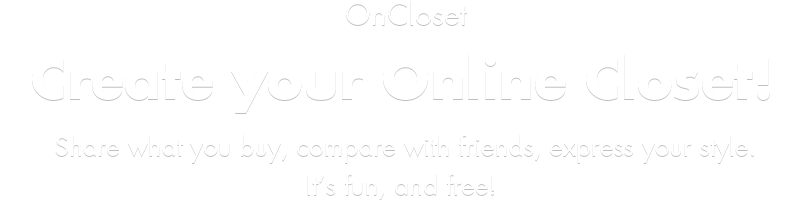
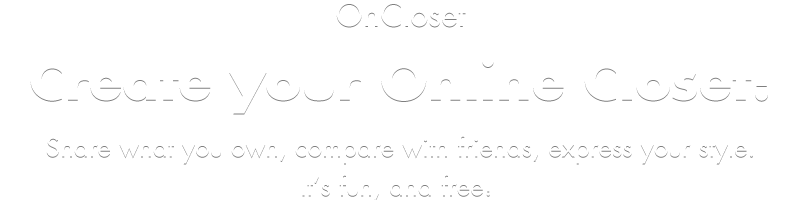
tiled onboarding, invite styled

diff --git a/public/stylesheets/home.css b/public/stylesheets/home.css
@@ -400,19 +400,18 @@ body.home6 {
 	margin: 0px auto 0px;
 }
 
-/*-------------------- Home 6 (Gojee1) --------------------*/
+/*-------------------- Home 7 (Batch) --------------------*/
 
 body.home7 {
 	font-family: 'FuturaStdBook', Arial, sans-serif;
 	-webkit-font-smoothing: antialiased;
 	font-size: 16px;
-	background: black url('/images/home7.jpg') no-repeat;
+	background: black url('/images/tile35_33.jpg');
 	background-position: center top;
 	overflow: hidden;
 }
 
-/*-------------------- Home 7 (Batch) --------------------*/
-
+/*
 #background {
 	width: 100%; 
   height: 100%; 
@@ -422,7 +421,7 @@ body.home7 {
   z-index: -1;
 }
 
-.stretch { /* for cross-browser stretching bg */
+.stretch { /* for cross-browser stretching bg 
 	 width:100%;
    height:100%;
 }
@@ -435,6 +434,7 @@ body.home7 {
 	bottom: 0px;
 	background: url('/images/black_16.png');
 }
+*/
 
 #container.home7 {
 	width: 800px;
@@ -450,7 +450,7 @@ body.home7 {
 	width: 334px;
 	height: 120px;
 	margin: 26px auto 0;
-	background: url('/images/home_batch_3_login.png');
+	background: url('/images/home_batch_login.png');
 	display: block;
 }
 

diff --git a/public/stylesheets/application.css b/public/stylesheets/application.css
@@ -467,7 +467,8 @@ body {
 
 #pic_bg #container .pick_top_stores,
 #pic_bg #container .follow_people,
-#pic_bg #container .add_1st_item  {
+#pic_bg #container .add_1st_item,
+#pic_bg #container .invite_friends {
 	width: 320px;
 	height: 60px;
 	cursor: pointer;
@@ -515,6 +516,14 @@ body {
 }
 #pic_bg #container .add_1st_item:hover { background-position: 0 -480px; }
 #pic_bg #container .add_1st_item:active { background-position: 0 -540px; }
+
+#pic_bg #container .invite_friends { 
+	background-position: 0 -600px;
+	margin-bottom: 40px;  
+
+}
+#pic_bg #container .invite_friends:hover { background-position: 0 -660px; }
+#pic_bg #container .invite_friends:active { background-position: 0 -720px; }
 
 #pic_bg #container #users .picker_choice .tiles {
 	position: absolute;
